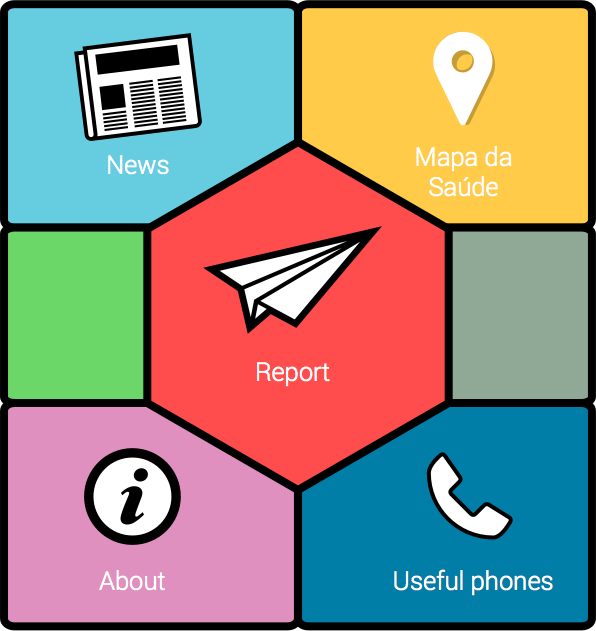
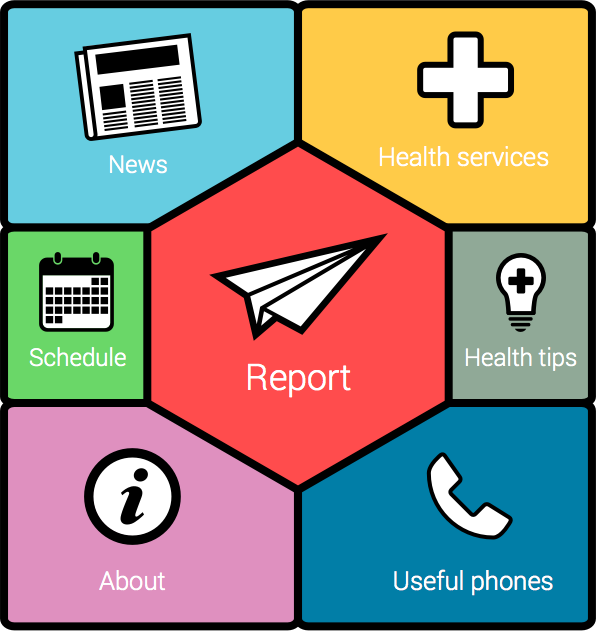
add menu style

diff --git a/www/templates/home.html b/www/templates/home.html
@@ -5,19 +5,20 @@
         </ion-content>
         <ion-footer-bar align-title="center" class="footer-no-height">
             <div class="home-menu col">
-                <div class="home-item" href="#/app/report" id="home-report">
-                </div>
-                <div class="home-item" href="#/app/contents/1" id="home-content-1">
-                </div>
-                <div class="home-item" href="#/app/contents/1" id="home-content-2">
-                </div>
-                <div class="home-item" href="#/app/contents/1" id="home-content-3">
-                </div>
-                <div class="home-item" href="#/app/contents/1" id="home-content-4">
-                </div>
-                <div class="home-item" href="#/app/contents/1" id="home-content-5">
-                </div>
-                <div class="home-item" href="#/app/contents/1" id="home-content-6">
+                <div class="home-menu-items">
+                    <a class="home-item" href="#/app/report" id="home-report">
+                    </a>
+                    <a class="home-item" href="#/app/contents/1" id="home-content-1">
+                    </a>
+                    <a class="home-item" href="#/app/contents/1" id="home-content-2">
+                    </a>
+                    <a class="home-item" href="#/app/contents/1" id="home-content-3">
+                    </a>
+                    <a class="home-item" href="#/app/contents/1" id="home-content-4">
+                    </a>
+                    <a class="home-item" href="#/app/contents/1" id="home-content-5">
+                    </a>
+                    <div class="home-item" href="#/app/contents/1" id="home-content-6">
                 </div>
             </div>
         </ion-footer-bar>

diff --git a/www/themes/music/css/style.css b/www/themes/music/css/style.css
@@ -16,6 +16,23 @@
     color: #FFF;
 }
 
+.view-container .menu-left .bar.bar-stable {
+    background-image: url('../img/header.png');
+    background-color: transparent;
+    background-position: center;
+    background-size: cover;
+    height: 155px;
+}
+.menu-left .has-header {
+    top: 155px;
+}
+.menu-left a {
+    font-weight: bold;
+}
+.menu-left h1.title {
+    display: none;
+}
+
 .splash-image {
     background-image: url('../img/splash.png');
 }
@@ -26,3 +43,24 @@
     background-image: url('../img/home-menu.png');
     max-height: 500px;
 }
+
+/* orign from center */
+.home-item {
+    position: absolute;
+    top: 50%;
+    left: 50%;
+    cursor: pointer;
+    z-index: 2;
+}
+#home-report {
+    z-index: 3;
+}
+
+/* home menu item positions */
+#home-report    { margin-top: -16%; margin-left: -17%; width:  34%; height:  34%; } /* Center */
+#home-content-1 { margin-top: -45%; margin-left: -45%; width:  40%; height:  30%; } /* Top Left */
+#home-content-2 { margin-top: -45%; margin-left:   5%; width:  40%; height:  30%; } /* Top Right */
+#home-content-3 { margin-top: -12%; margin-left:  22%; width:  19%; height:  27%; } /* Right */
+#home-content-4 { margin-top:  17%; margin-left:   5%; width:  40%; height:  30%; } /* Bottom Right */
+#home-content-5 { margin-top:  17%; margin-left: -45%; width:  40%; height:  30%; } /* Bottom Left */
+#home-content-6 { margin-top: -12%; margin-left: -42%; width:  19%; height:  27%; } /* Left */

diff --git a/www/contents/templates/p11.detail.html b/www/contents/templates/p11.detail.html
@@ -3,6 +3,10 @@
         <div class="list card">
             <div class="item item-image">
                 <img src="http://lorempixel.com/400/300/nature/1/">
+                <div class="page-meta">
+                    <strong class="page-title">Fusce fermentum odio nec arcu</strong><br/>
+                    <small class="page-created">July 2, 2015</small>
+                </div>
             </div>
             <div class="item item-text-wrap">
                 Fusce fermentum odio nec arcu. Ut tincidunt tincidunt erat. Quisque id mi. Vestibulum turpis sem, aliquet eget, lobortis pellentesque, rutrum eu, nisl.

diff --git a/www/contents/templates/p12.detail.html b/www/contents/templates/p12.detail.html
@@ -3,6 +3,10 @@
         <div class="list card">
             <div class="item item-image">
                 <img src="http://lorempixel.com/400/300/nature/2/">
+                <div class="page-meta">
+                    <strong class="page-title">Fusce fermentum odio nec arcu</strong><br/>
+                    <small class="page-created">July 2, 2015</small>
+                </div>
             </div>
             <div class="item item-text-wrap">
                 Curabitur at lacus ac velit ornare lobortis. Vivamus aliquet elit ac nisl. Vestibulum fringilla pede sit amet augue.

diff --git a/www/css/style.css b/www/css/style.css
@@ -26,7 +26,6 @@
     position: absolute;
     bottom: 20px;
     left: 0;
-
 }
 .home-menu::after {
     content: " ";
@@ -36,4 +35,12 @@
 .footer-no-height {
     height: 0;
     padding: 0;
+}
+
+.page-meta {
+    position: absolute;
+    bottom: 20px;
+    left: 20px;
+    color: #FFF;
+    text-align: left;
 }
